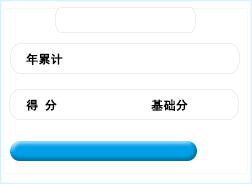
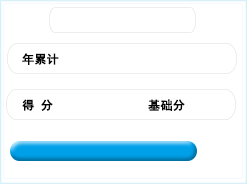
2，细微调整
2，细微调整
2.1 得分按照比例和图片对齐
2.2 数字使用统一字体
2.3 控制在翻动过程中不允许点击
2.4 hover使用固定规则，替代 toggle不确定的方式

diff --git a/lang/html/item/demo/v/5/index.html b/lang/html/item/demo/v/5/index.html
@@ -14,14 +14,16 @@ body {
 }
 
 .page {
-	width: 1008px;
-	height: 190px;
+	width: 988px;
+	height: 205px;
 	overflow: hidden;
+	*overflow-x: scroll;
 	position: relative;/*ie6,ie7 bug*/
 }
 
 .page-inner {
 	margin-left: -0px;
+	width: 10000px;
 }
 
 .page-left, .page-right {
@@ -34,15 +36,15 @@ body {
 }
 
 .page-left {
-	left: 5px;
+	left: 7px;
 }
 .page-right {
-	left: 970px;
+	left: 952px;
 }
 
 .item {
-	width: 252px;
-	height: 185px;
+	width: 247px;
+	height: 186px;
 	background: url(img/item-background.png);
 	float: left;
 }
@@ -90,19 +92,29 @@ body {
 	left: 200px;
 }
 
-.score-2 {
-	top: 47px;
-	left: 100px;
+.score-2-container {
+	top: 43px;
+	width: 190px;
 	z-index: 1;
 }
-
+.score-2 {
+	width: 100%;
+	text-align: right;
+	z-index: 1;
+	color: white;
+}
 .base-score-2 {
-	top: 30px;
-	left: 200px;
+	top: 25px;
+	left: 205px;
+}
+
+.score-1, .base-score-1, .score-2, .base-score-2 {
+	font-family: "Square721 BT";
+	font-weight: bolder;
 }
 
 .score-line {
-	top: 9px;
+	top: 3px;
 	left: 11px;
 	width: 190px;
 }
@@ -136,7 +148,9 @@ body {
 				<div class="field-unit">万元</div>
 				<div class="score-1">25</div>
 				<div class="base-score-1">25</div>
-				<div class="score-2">25</div>
+				<div class="score-2-container">
+					<div class="score-2">25</div>
+				</div>
 				<div class="base-score-2">25</div>
 				<div class="score-line">
 					<img src="img/score-line.png" />
@@ -151,7 +165,9 @@ body {
 				<div class="field-unit">万元</div>
 				<div class="score-1">25</div>
 				<div class="base-score-1">25</div>
-				<div class="score-2">25</div>
+				<div class="score-2-container">
+					<div class="score-2">25</div>
+				</div>
 				<div class="base-score-2">25</div>
 				<div class="score-line">
 					<img src="img/score-line.png" />
@@ -167,7 +183,9 @@ body {
 				<div class="field-unit">&nbsp;</div>
 				<div class="score-1">4.5</div>
 				<div class="base-score-1">5</div>
-				<div class="score-2">4.5</div>
+				<div class="score-2-container">
+					<div style="width: 90%;" class="score-2">4.5</div>
+				</div>
 				<div class="base-score-2">5</div>
 				<div class="score-line">
 					<img style="width: 90%;" src="img/score-line.png" />
@@ -182,7 +200,9 @@ body {
 				<div class="field-unit">&nbsp;</div>
 				<div class="score-1">9</div>
 				<div class="base-score-1">10</div>
-				<div class="score-2">9</div>
+				<div class="score-2-container">
+					<div style="width: 90%;" class="score-2">9</div>
+				</div>
 				<div class="base-score-2">10</div>
 				<div class="score-line">
 					<img style="width: 90%;" src="img/score-line.png" />
@@ -197,7 +217,9 @@ body {
 				<div class="field-unit">万元</div>
 				<div class="score-1">25</div>
 				<div class="base-score-1">25</div>
-				<div class="score-2">25</div>
+				<div class="score-2-container">
+					<div class="score-2">25</div>
+				</div>
 				<div class="base-score-2">25</div>
 				<div class="score-line">
 					<img src="img/score-line.png" />
@@ -211,7 +233,9 @@ body {
 				<div class="field-unit">&nbsp;</div>
 				<div class="score-1">5</div>
 				<div class="base-score-1">5</div>
-				<div class="score-2">5</div>
+				<div class="score-2-container">
+					<div class="score-2">5</div>
+				</div>
 				<div class="base-score-2">5</div>
 				<div class="score-line">
 					<img src="img/score-line.png" />
@@ -225,7 +249,9 @@ body {
 				<div class="field-unit">&nbsp;</div>
 				<div class="score-1">9</div>
 				<div class="base-score-1">10</div>
-				<div class="score-2">9</div>
+				<div class="score-2-container">
+					<div style="width: 90%;" class="score-2">9</div>
+				</div>
 				<div class="base-score-2">10</div>
 				<div class="score-line">
 					<img style="width: 90%;" src="img/score-line.png" />
@@ -239,7 +265,9 @@ body {
 				<div class="field-unit">&nbsp;</div>
 				<div class="score-1">9</div>
 				<div class="base-score-1">10</div>
-				<div class="score-2">9</div>
+				<div class="score-2-container">
+					<div style="width: 90%;" class="score-2">9</div>
+				</div>
 				<div class="base-score-2">10</div>
 				<div class="score-line">
 					<img style="width: 90%;" src="img/score-line.png" />
@@ -249,33 +277,80 @@ body {
 		</div>
 	</div>
 	<script>
+	
+		var isModing = false;
+		
 		$(".page-left").click(function() {
 
-			$(".page-inner").css("margin-left", parseInt($(".page-inner").css("margin-left")) - 252 + 'px');
+			if (isModing) {
+				return;
+			}
 			
-			//修改margin后，ie6,7下触发重新布局，使生效
-			$(".page-inner").css("zoom", 1);
-			
-			setPageLeftRigthShowOrHide(".page-right");
+			var times = 0;
+			var id = setInterval(function() {
+				
+				isModing = true;
+				
+				$(".page-inner").css("margin-left", parseInt($(".page-inner").css("margin-left")) - 25 + 'px');
+				//修改margin后，ie6,7下触发重新布局，使生效
+				$(".page-inner").css("zoom", 1);
+				
 
+				times ++;
+				if (times > 9) {
+					clearInterval(id);
+					
+					$(".page-inner").css("margin-left", parseInt($(".page-inner").css("margin-left")) + 3 + 'px');
+					$(".page-inner").css("zoom", 1);
+					
+					setPageLeftRigthShowOrHide(".page-right");
+					
+					isModing = false;
+				}
+				
+			}, 100);
+			
 		});
 		$(".page-right").click(function() {
+			
+			if (isModing) {
+				return;
+			}
+			
+			var times = 0;
+			var id = setInterval(function() {
 
-			$(".page-inner").css("margin-left", parseInt($(".page-inner").css("margin-left")) + 252 + 'px');
+				isModing = true;
+				
+				$(".page-inner").css("margin-left", parseInt($(".page-inner").css("margin-left")) + 25 + 'px');
+				//修改margin后，ie6,7下触发重新布局，使生效
+				$(".page-inner").css("zoom", 1);
+				
+				times ++;
+				if (times > 9) {
+					clearInterval(id);
+				
+					$(".page-inner").css("margin-left", parseInt($(".page-inner").css("margin-left")) - 3 + 'px');
+					//修改margin后，ie6,7下触发重新布局，使生效
+					$(".page-inner").css("zoom", 1);
+					
+					setPageLeftRigthShowOrHide(".page-left");
+					
+					isModing = false;
+					
+				}
+				
+			}, 100);
 			
-			//修改margin后，ie6,7下触发重新布局，使生效
-			$(".page-inner").css("zoom", 1);
 			
-			setPageLeftRigthShowOrHide(".page-left");
 		});
 		function setPageLeftRigthShowOrHide(selector) {
 
 			//右边箭头显示控制（右边还有）
-			if ($(".page-inner .item").length + parseInt($(".page-inner").css("margin-left")) / 252 > 4) {
+			if ($(".page-inner .item").length + parseInt($(".page-inner").css("margin-left")) / 247 > 4) {
 				$(".page-left").show();
 
 				$(selector + " img.hover").hide();
-				$(selector + " img.off").show();
 			} else {
 				$(".page-left").hide();
 			}
@@ -284,14 +359,17 @@ body {
 				$(".page-right").show();
 
 				$(selector + " img.hover").hide();
-				$(selector + " img.off").show();
 			} else {
 				$(".page-right").hide();
 			}
 		}
 
 		$(".page-left,.page-right").hover(function() {
-			$(this).children("img").toggle();
+			$(this).children("img.hover").show();
+			$(this).children("img.off").hide();
+		},function() {
+			$(this).children("img.hover").hide();
+			$(this).children("img.off").show();
 		});
 
 		setPageLeftRigthShowOrHide(".page");
